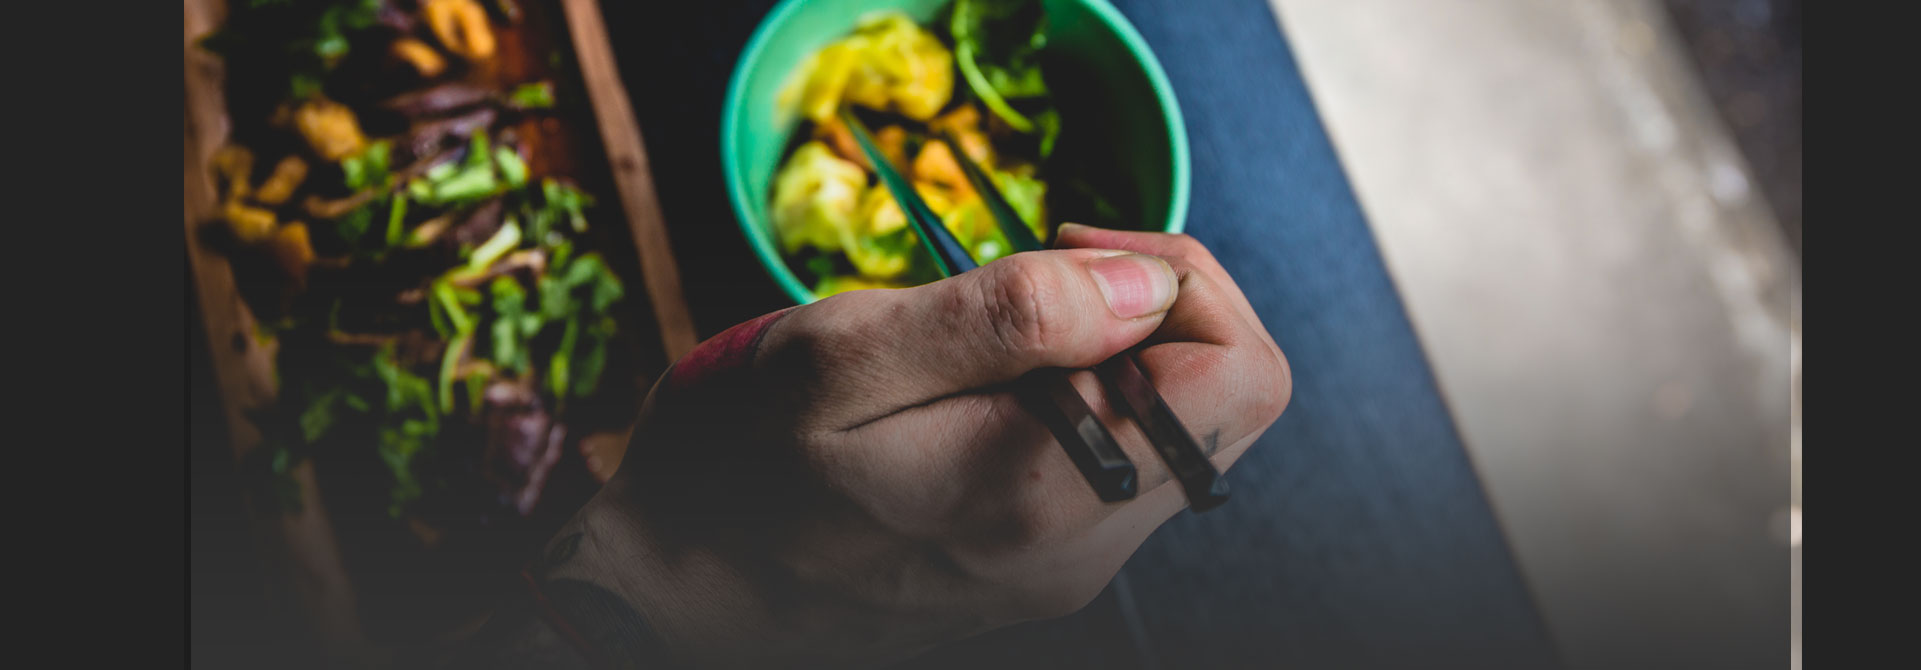
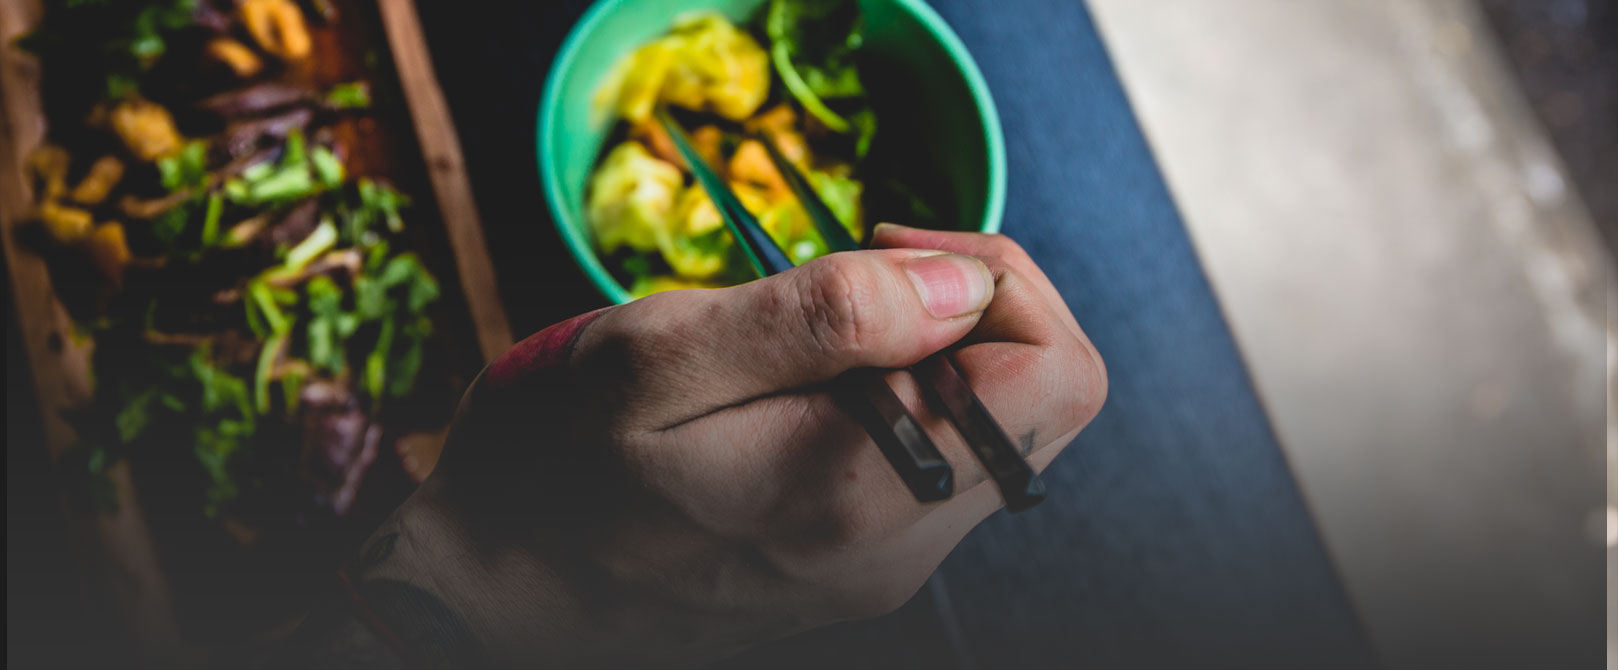
+lil fixes

diff --git a/src/style/partials/header.sass b/src/style/partials/header.sass
@@ -1,5 +1,6 @@
 .header
 	background: url(../img/header_bg.jpg) no-repeat top
+	background-size: cover
 	color: white
 	font-size: 40px
 	//font-family: $OpenSans
@@ -33,13 +34,16 @@
 		.nav-bar
 			display: flex
 			justify-content: space-between
+			align-items: center
 			padding-right: 73px
-			position: relative
+			//position: relative
 			.nav
 				display: inline-block
 				//margin-right: 73px
 				//vertical-align: top
 				font-size: 13px
+				margin-right: 30px
+				margin-left: auto
 				//font-family: Arial, Helvetica, sans-serif
 				&__item
 					display: inline-block
@@ -65,11 +69,11 @@
 					&:last-of-type
 						margin-right: 0
 			.search-form
-				position: absolute
+				position: relative
 				line-height: 0
-				left: 100%
-				top: 50%
-				transform: translate(-45px, -50%)
+				//left: 100%
+				//top: 50%
+				//transform: translate(-45px, -50%)
 				//margin-top: auto
 				//margin-bottom: auto
 				//display: inline-block
@@ -91,30 +95,34 @@
 					right: 13px
 					top: 50%
 					transform: translateY(-50%)
-	.big-text
-		font-size: 50px
-		max-width: 505px
-		line-height: 1.4
-		text-align: right	
-		margin-bottom: 50px
-	.button-box
+	.content
 		display: inline-block
-		margin-left: 225px
-		margin-bottom: 253px
-		.start-btn
+		max-width: 505px
+		text-align: right
+		.big-text
+			font-size: 50px
+			//max-width: 505px
+			line-height: 1.4
+			//text-align: right	
+			margin-bottom: 50px
+		.button-box
 			display: inline-block
-			background-color: $pseudoVelvetBG
-			width: 280px
-			font-size: 17px
-			line-height: 60px
-			font-family: $OpenSansBold
-			padding: 0 60px
-			text-decoration: none
-			color: white
-			border-radius: 30px
-			box-shadow: 0 -1px 2px 1px #b87ce1, 0 1px 1px 1px black
-			margin-bottom: 19px
-		.lil-text
-			display: block
-			font-size: 12px
-			text-align: center
+			//margin-left: 225px
+			margin-bottom: 253px
+			.start-btn
+				display: inline-block
+				background-color: $pseudoVelvetBG
+				width: 280px
+				font-size: 17px
+				line-height: 60px
+				font-family: $OpenSansBold
+				padding: 0 60px
+				text-decoration: none
+				color: white
+				border-radius: 30px
+				box-shadow: 0 -1px 2px 1px #b87ce1, 0 1px 1px 1px black
+				margin-bottom: 19px
+			.lil-text
+				display: block
+				font-size: 12px
+				text-align: center

diff --git a/src/style/partials/imagestratch.sass b/src/style/partials/imagestratch.sass
@@ -1,34 +1,48 @@
 .imagestretch
-    background: url(../img/imgstr_bg.jpg) no-repeat top
+    background: url(../img/Hue_Saturation-1.jpg) no-repeat center
+    background-position: 50% 70%
     padding: 190px 0 117px 0
     color: white
     text-align: center
     //font-family: $OpenSans
-    .big-text
-        font-family: $OpenSansLight
-        font-size: 40px
-        margin-bottom: 20px
-    .mid-text
-        margin-left: auto
-        margin-right: auto
-        color: $lightVelvetTxt
-        font-size: 20px
-        line-height: 1.7
-        max-width: 740px
-        margin-bottom: 24px
-    .start-btn
-        display: inline-block
-        background-color: $pseudoVelvetBG
-        width: 280px
-        font-size: 17px
-        line-height: 60px
-        font-family: $OpenSansBold
-        padding: 0 60px
-        text-decoration: none
-        color: white
-        border-radius: 30px
-        box-shadow: 0 -1px 2px 1px #b87ce1, 0 1px 1px 1px black
-        margin-bottom: 19px
-    .lil-text
-        display: block
-        font-size: 12px
+    position: relative
+    &::after
+        z-index: 0
+        content: ""
+        position: absolute
+        left: 0
+        bottom: 0
+        right: 0
+        top: 95px
+        background-color: rgba(82, 26 ,102, 0.8)
+    .content
+        position: relative
+        z-index: 5
+        .big-text
+            font-family: $OpenSansLight
+            font-size: 40px
+            margin-bottom: 20px
+        .mid-text
+            margin-left: auto
+            margin-right: auto
+            color: $lightVelvetTxt
+            font-size: 20px
+            line-height: 1.7
+            max-width: 740px
+            margin-bottom: 24px
+        .start-btn
+            display: inline-block
+            background-color: $pseudoVelvetBG
+            width: 280px
+            font-size: 17px
+            line-height: 60px
+            font-family: $OpenSansBold
+            padding: 0 60px
+            text-decoration: none
+            color: white
+            border-radius: 30px
+            box-shadow: 0 -1px 2px 1px #b87ce1, 0 1px 1px 1px black
+            margin-bottom: 19px
+        .lil-text
+            display: block
+            font-size: 12px

diff --git a/src/template/imagestratch.html b/src/template/imagestratch.html
@@ -1,14 +1,16 @@
 <div class="imagestretch">
-    <h2 class="big-text">
-        Experience the rush today
-    </h2>
-    <p class="mid-text">
-        Lorem ipsum dolor sit amet, consectetur adipisicing elit, sed do eiusmod tempor incididunt ut labore et dolore magna aliqua consectetur adipisicing elit.
-    </p>
-    <a href="#" class="start-btn">
-        Get Started Today
-    </a>
-    <span class="lil-text">
-        Lorem ipsum dolor sit amet consectetur.
-    </span>
+    <div class="content">
+        <h2 class="big-text">
+            Experience the rush today
+        </h2>
+        <p class="mid-text">
+            Lorem ipsum dolor sit amet, consectetur adipisicing elit, sed do eiusmod tempor incididunt ut labore et dolore magna aliqua consectetur adipisicing elit.
+        </p>
+        <a href="#" class="start-btn">
+            Get Started Today
+        </a>
+        <span class="lil-text">
+            Lorem ipsum dolor sit amet consectetur.
+        </span>
+    </div>
 </div>

diff --git a/src/template/header.html b/src/template/header.html
@@ -19,17 +19,19 @@
                 </form>
             </div>
         </div>
-        <h1 class="big-text">
-            Designs your eyeballs 
-            will thank you for
-        </h1>
-        <div class="button-box">
-            <a href="#" class="start-btn">
-                Get Started Today
-            </a>
-            <span class="lil-text">
-                Lorem ipsum dolor sit amet consectetur.
-            </span>
+        <div class="content">
+            <h1 class="big-text">
+                Designs your eyeballs 
+                will thank you for
+            </h1>
+            <div class="button-box">
+                <a href="#" class="start-btn">
+                    Get Started Today
+                </a>
+                <span class="lil-text">
+                    Lorem ipsum dolor sit amet consectetur.
+                </span>
+            </div>
         </div>
     </div>
 </header>

diff --git a/src/style/partials/featurearticle.sass b/src/style/partials/featurearticle.sass
@@ -1,6 +1,7 @@
 .featurearticle
 	background: url(../img/post_Image_bg.jpg) no-repeat top
-	background-position: left calc(50% - 23px) top 0px
+	//background-position: left calc(50% - 23px) top 0px
+	background-size: cover
 	padding: 353px 0 88px 0
 	//font-family: $OpenSans
 	color: white

diff --git a/src/index.html b/src/index.html
@@ -6,7 +6,7 @@
   <meta name="viewport" content="width=device-width, initial-scale=1.0">
   <meta http-equiv="X-UA-Compatible" content="ie=edge">
   <link rel="stylesheet" href="css/main.css">
-  <title>Terraleads</title>
+  <title>Pex</title>
 </head>
 
 <body>

diff --git a/src/style/partials/common.sass b/src/style/partials/common.sass
@@ -2,9 +2,9 @@ body
 	background: $mainColor
 	font-size: 15px
 	font-family: $OpenSans
-	max-width: 1600px
-	margin-left: auto
-	margin-right: auto
+	//max-width: 1600px
+	//margin-left: auto
+	//margin-right: auto
 
 // Font icons
 .fico

diff --git a/src/style/partials/pink.sass b/src/style/partials/pink.sass
@@ -1,5 +1,6 @@
 .pink
 	background: url(../img/pink_bg.jpg) no-repeat center
+	background-size: cover
 	padding: 155px 0 194px 0
 	text-align: center
 	//font-family: $OpenSans

diff --git a/src/libs/grid.css b/src/libs/grid.css
@@ -25,7 +25,7 @@
 
 @media (min-width: 1200px) {
   .container {
-    width: 1140px;
+    width: 1180px;
   }
 }
 
